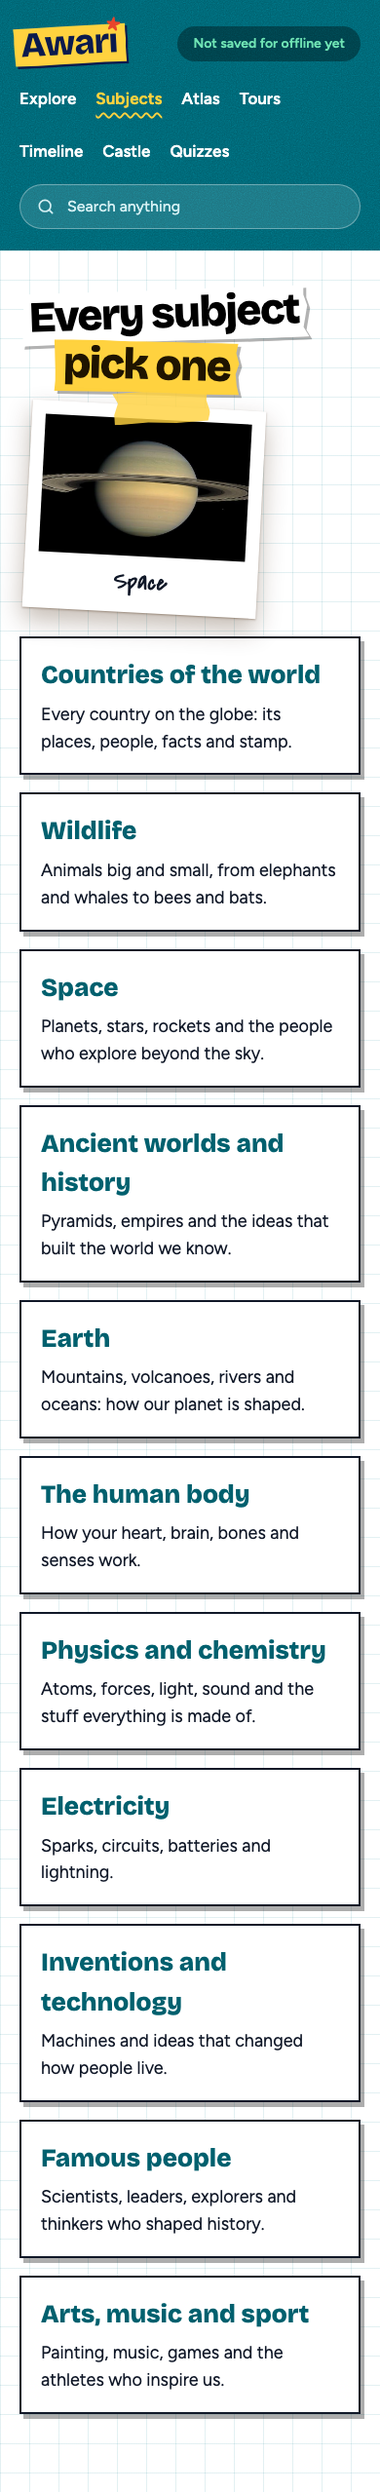
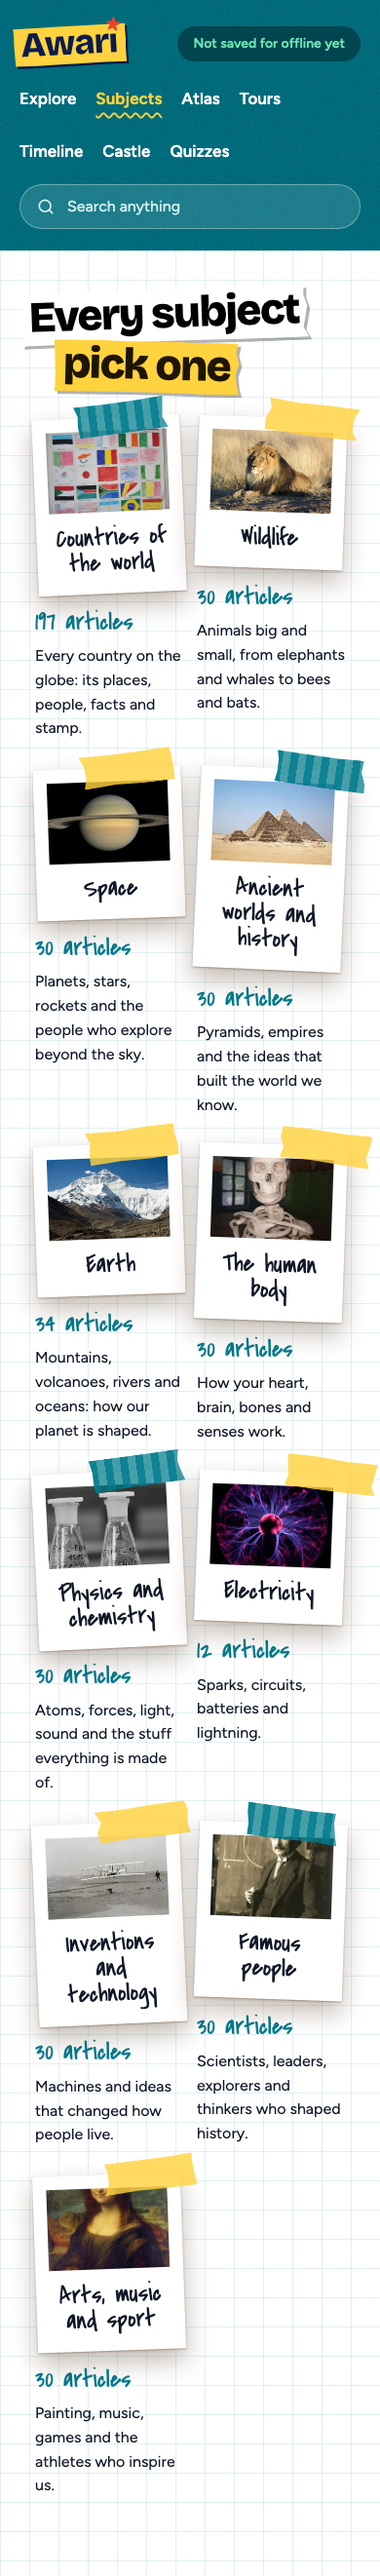
22-review-3 6: subjects page as cover prints with counts from the data

diff --git a/src/features/subject/SubjectScreen.tsx b/src/features/subject/SubjectScreen.tsx
@@ -9,8 +9,7 @@ import { Link } from '../../app/navigation.tsx';
 import { useTitle } from '../../app/useTitle.ts';
 import { Button, Doodle, MarginNote, Print, StripHeading, TornEdge } from '../../design/paper.tsx';
 import { perforation } from '../../design/wobble.ts';
-import { SUBJECT_COVERS, type SubjectCover } from '../../lib/packs/covers.ts';
-import { dayNumber } from '../home/today.ts';
+import { coverFor } from '../../lib/packs/covers.ts';
 import type { HomeData } from '../../lib/packs/home.ts';
 import { useProgress } from '../../lib/store/useProgress.ts';
 import { packUrl, usePack } from '../../lib/packs/load.ts';
@@ -184,10 +183,33 @@ export default function SubjectScreen({ params }: { params: Record<string, strin
 }
 
 /** `/subjects`: every subject as a card. */
+const CARD_TILTS = [-2.5, 1.8, -1.2, 2.6, -2, 1.4, -2.8, 2.2] as const;
+
+/** One subject as its cover print with a handwritten label and the number of articles in its pack. */
+function SubjectPrint({ subject, index }: { subject: (typeof SUBJECTS)[number]; index: number }) {
+  const cover = coverFor(subject.id);
+  const pack = usePack<PackIndex>(`${subject.id}/index.json`);
+  const count = pack.status === 'ready' ? pack.data.items.length : undefined;
+  return (
+    <li className="subject-print">
+      <Print
+        to={`/subject/${subject.id}`}
+        src={cover?.file ?? '/photos/earth.jpg'}
+        alt={cover?.alt ?? subject.name}
+        caption={subject.name}
+        captionSize={26}
+        width={230}
+        tilt={CARD_TILTS[index % CARD_TILTS.length]}
+        tape={[{ left: `${28 + ((index * 17) % 30)}%`, width: 96, tilt: index % 2 === 0 ? -5 : 6, tone: index % 3 === 0 ? 'teal' : 'yellow' }]}
+      />
+      <p className="subject-print__count hand">{count === undefined ? '…' : `${count} ${count === 1 ? 'article' : 'articles'}`}</p>
+      <p className="subject-print__blurb">{subject.blurb}</p>
+    </li>
+  );
+}
+
 export function SubjectList() {
   useTitle('Subjects');
-  // A different subject's cover each day, so the print is never the same one twice running.
-  const todaysCover = SUBJECT_COVERS[dayNumber(new Date()) % SUBJECT_COVERS.length] as SubjectCover;
   return (
     <section className="page squared subject" aria-labelledby="subjects-title">
       <StripHeading
@@ -197,27 +219,12 @@ export function SubjectList() {
           { text: 'pick one', tone: 'yellow', tilt: 1.5, style: { marginLeft: '0.8em' } },
         ]}
       />
-      <Print
-        className="page-print"
-        src={todaysCover.file}
-        alt={todaysCover.alt}
-        caption={todaysCover.caption}
-        captionSize={26}
-        width={240}
-        tilt={3}
-        tape={[{ left: '34%', width: 100, tilt: -5, tone: 'yellow' }]}
-      />
       <MarginNote tilt={-2} size={30} className="subjects-intro crowding" style={{ color: 'var(--teal-ink)' }}>
-        {SUBJECTS.length - 1} subjects of about 30 articles each, plus all 197 countries.
+        {SUBJECTS.length} subjects. Tap a picture to open its pages.
       </MarginNote>
-      <ul className="subject__cards">
-        {SUBJECTS.map((s) => (
-          <li key={s.id}>
-            <Link to={`/subject/${s.id}`} className="subject__card lift">
-              <span className="subject__card-name">{s.name}</span>
-              <span>{s.blurb}</span>
-            </Link>
-          </li>
+      <ul className="subject-prints">
+        {SUBJECTS.map((s, i) => (
+          <SubjectPrint key={s.id} subject={s} index={i} />
         ))}
       </ul>
     </section>

diff --git a/src/features/subject/subjects-page.test.tsx b/src/features/subject/subjects-page.test.tsx
@@ -1,0 +1,36 @@
+/** 22-review-3 Req 4: /subjects shows cover prints, and every number comes from the data. */
+import { readFileSync } from 'node:fs';
+import { render, screen } from '@testing-library/react';
+import { beforeEach, describe, expect, it } from 'vitest';
+import { clearPackCache } from '../../lib/packs/load.ts';
+import { SUBJECTS } from '../../lib/packs/subjects.ts';
+import { servePacksFromDisk } from '../../test/packFetch.ts';
+import SubjectsScreen from './SubjectsScreen.tsx';
+
+describe('/subjects (22-review-3 Req 4)', () => {
+  beforeEach(() => {
+    clearPackCache();
+    servePacksFromDisk();
+  });
+
+  it('shows one cover print per subject, linked to its page, with the real article count', async () => {
+    const { container } = render(<SubjectsScreen />);
+    const prints = container.querySelectorAll('.subject-print');
+    expect(prints).toHaveLength(SUBJECTS.length);
+    for (const s of SUBJECTS) {
+      const count = (JSON.parse(readFileSync(`public/packs/${s.id}/index.json`, 'utf8')) as { items: unknown[] }).items.length;
+      const link = container.querySelector(`a[href="/subject/${s.id}"]`);
+      expect(link).not.toBeNull();
+      const item = link?.closest('.subject-print');
+      expect(await screen.findAllByText(`${count} ${count === 1 ? 'article' : 'articles'}`)).not.toHaveLength(0);
+      expect(item?.querySelector('img')?.getAttribute('src')).toMatch(/^\/photos\//);
+    }
+  });
+
+  it('states no number by hand in the intro', () => {
+    const { container } = render(<SubjectsScreen />);
+    const note = container.querySelector('.subjects-intro')?.textContent ?? '';
+    expect(note).toContain(String(SUBJECTS.length));
+    expect(note).not.toMatch(/\b(30|197)\b/);
+  });
+});

diff --git a/src/features/subject/subject.css b/src/features/subject/subject.css
@@ -169,3 +169,52 @@
   max-width: 420px;
   margin: 0 0 20px;
 }
+
+/* /subjects: each subject is its cover print with a handwritten label (22-review-3 Req 4). */
+.subject-prints {
+  display: grid;
+  grid-template-columns: repeat(auto-fill, minmax(250px, 1fr));
+  gap: 34px 28px;
+  margin: 24px 0 0;
+  padding: 0;
+  list-style: none;
+}
+
+.subject-print {
+  display: flex;
+  flex-direction: column;
+  align-items: flex-start;
+}
+
+.subject-print__count {
+  margin: 10px 0 0;
+  color: var(--teal-ink);
+  font-size: 26px;
+}
+
+.subject-print__blurb {
+  max-width: 250px;
+  margin: 2px 0 0;
+  font-size: 16px;
+}
+
+@media (max-width: 899px) {
+  .subject-prints {
+    grid-template-columns: repeat(2, minmax(0, 1fr));
+    gap: 28px 14px;
+    padding-inline: 16px;
+  }
+}
+
+.subject-print .print {
+  width: 100% !important;
+  max-width: 230px;
+}
+
+.subject-print {
+  min-width: 0;
+}
+
+.subjects-intro {
+  margin-bottom: 40px;
+}

diff --git a/src/features/subject/furniture.test.tsx b/src/features/subject/furniture.test.tsx
@@ -28,7 +28,11 @@ describe('paper furniture on /subjects, /stamps and /quiz', () => {
 
   it('/subjects', () => {
     const { container } = render(<SubjectsScreen />);
-    expectFurniture(container);
+    expect(container.querySelector('.strip-heading .strip')).not.toBeNull();
+    expect(container.querySelector('.margin-note')?.textContent?.trim().length).toBeGreaterThan(10);
+    // Every subject is its own cover print with tape (22-review-3 Req 4).
+    expect(container.querySelectorAll('.subject-print .print img').length).toBeGreaterThanOrEqual(10);
+    expect(container.querySelectorAll('.subject-print .print .tape').length).toBeGreaterThanOrEqual(10);
   });
 
   it('/stamps', async () => {

diff --git a/docs/kiro-log.md b/docs/kiro-log.md
@@ -146,3 +146,4 @@ running the command itself.
 | 2026-11-13 13:05 | npx vitest run (all pass), tsc, eslint; scripts/check-timeline-layout.ts at 1440 and 390 (0 px overflow, 23 births of 59 cards, 1900s); screenshot of /timeline opened | 22-review-3 3 | Cards are coloured by kind (birthday, country, founded or opened, discovery or launch, first published) with a legend; the year sits above the title; the ruler picks its step so it shows about ten marks; births are held strictly under 40% (kinds.property.test.ts, Property 5). Done in this session after the crew builder died |
 | 2026-11-13 13:25 | vitest src/features (all pass), tsc, eslint; screenshots of /stamps and /atlas at 1440 and 390 (0 px overflow), stamps and atlas at 1440 opened | 22-review-3 4 | New StampSheets component (src/features/stamps/StampSheets.tsx): six perforated sheets, 3 x 2 on a laptop and 2 x 3 on a phone, each a link to its continent page. The stamp book and the Atlas both use it; the old continent cards and the Atlas-only sheet CSS are gone (Req 5, 6) |
 | 2026-11-13 13:35 | scripts/check-atlas-layout.ts now also measures the gap: 24 px between picker and facts note at 1440 (limit 60), globe 54%, 0 px overflow at 390 | 22-review-3 5 | The Atlas uses the shared stamp sheets (task 4); an empty grid row takes the spare height so the picker and the facts note stay together |
+| 2026-11-13 13:55 | vitest src/features (149 pass), tsc, eslint; /subjects opened at 1440 and 390 (0 px overflow after making the prints fluid and padding the grid for the tape) | 22-review-3 6 | /subjects shows each subject as its reviewed cover print with a hand label, tape and an article count read from that subject's index.json; the intro states only the number of subjects, taken from the list (Req 4). New test subjects-page.test.tsx |

diff --git a/.kiro/specs/22-review-3/tasks.md b/.kiro/specs/22-review-3/tasks.md
@@ -11,7 +11,7 @@ One task per item. Each is built by `awari-builder`, checked by `awari-design-re
       under 40% (Property 5). _Req 14-16_
 - [x] 4. Stamp sheets component; stamp book continents as sheets in a 3x2 grid. _Req 5_
 - [x] 5. Atlas uses the stamp sheets; closes the gap under the picker. _Req 6, 7_
-- [ ] 6. Subjects page as cover prints with hand labels; count from data. _Req 4_
+- [x] 6. Subjects page as cover prints with hand labels; count from data. _Req 4_
 - [ ] 7. Home castle panel: a castle or a door; no duplicate photographs on Home (Property 3);
       hero note arrows clear of their text. _Req 8-10_
 - [ ] 8. Population: one figure with year and source in every country article; drop empty
